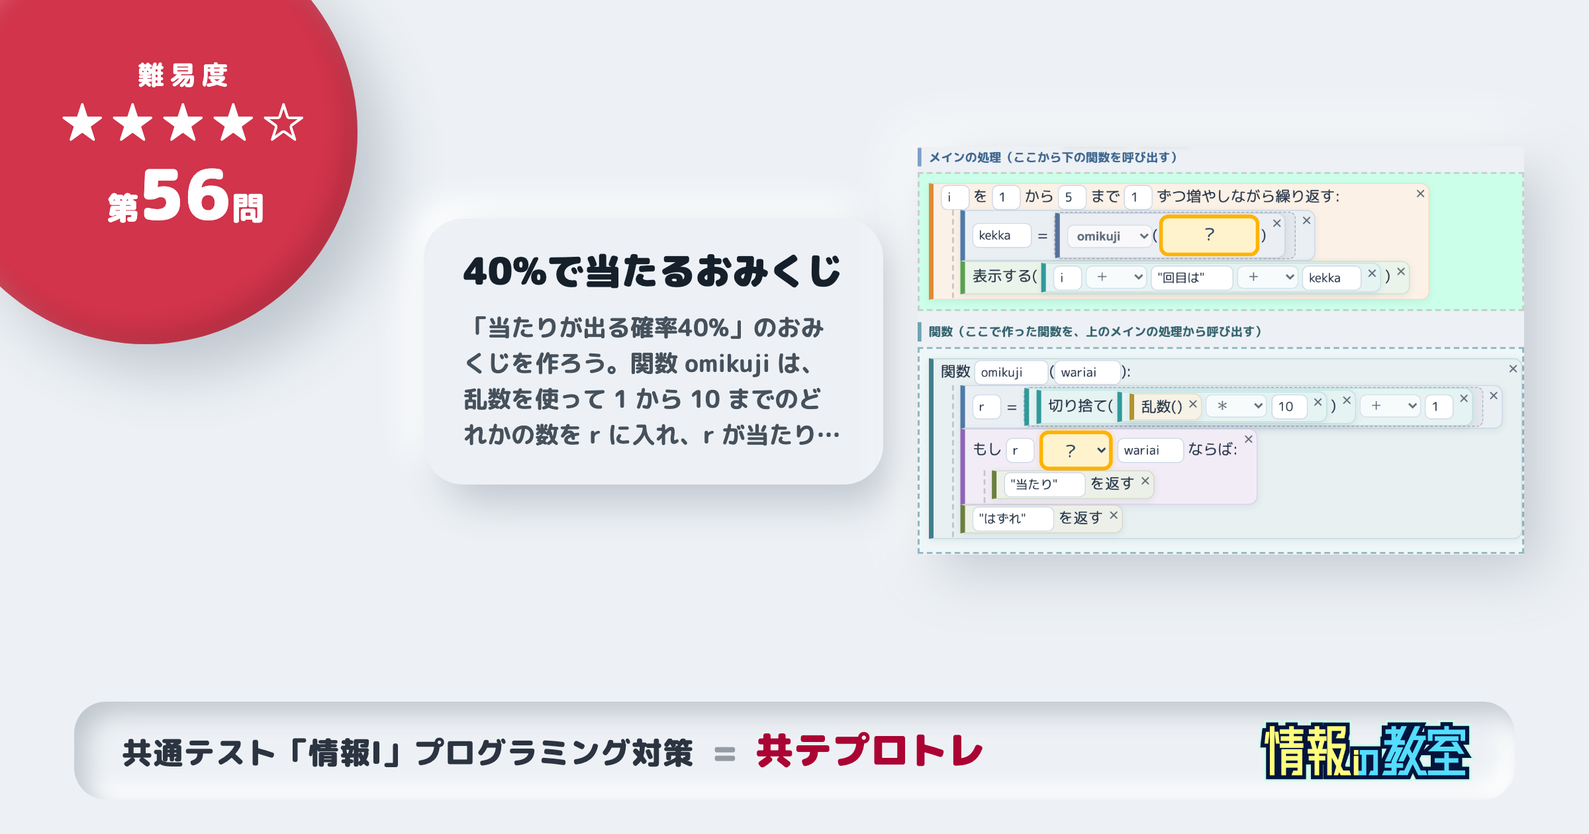
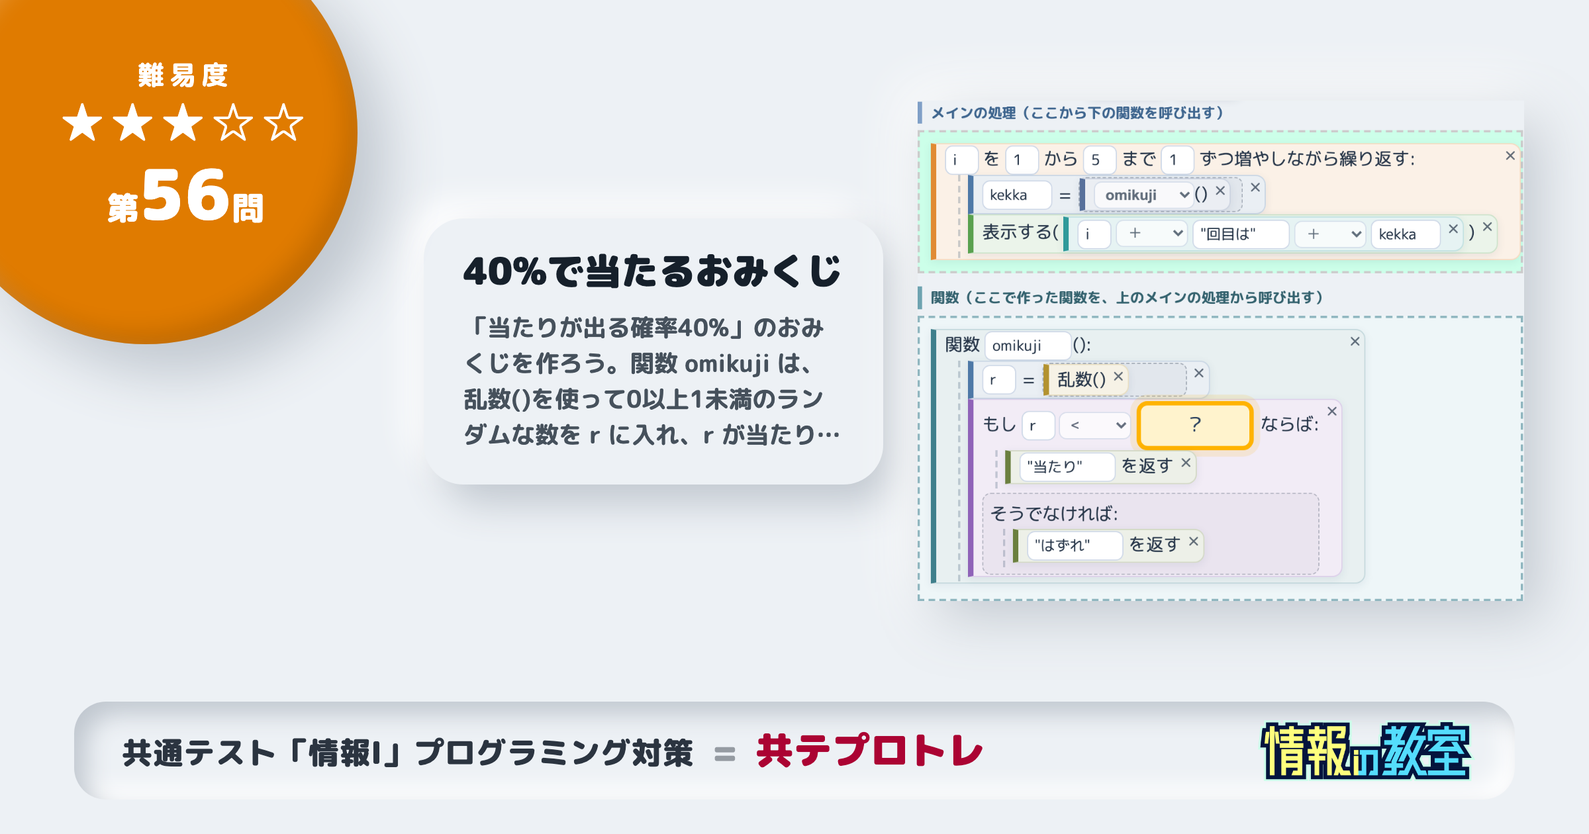
q056 を「乱数() をそのまま使う・空欄1か所」の形に直す
- 乱数() で 0以上1未満の数を r に入れ、r < ? を当たりの範囲にする
- 「そうでなければ はずれ を返す」の形（ifelse）にした
- 空欄は当たりの境目の1か所だけ（0.4 / 0.6 / 4 / 40）
- 切り捨てを使わなくなったぶん ★4 → ★3

あわせて、ステップ実行の説明で 乱数() が2回引かれてしまう不具合を直した。
代入の値をチップで見せるとき式を測りなおしていたため、
「乱数() → 0.37」と「r に 0.52 を入れる」のように違う数が並んでいた。
すでに実行して分かっている値を渡すようにした（operandChip の knownValue）。

Claude-Session: https://claude.ai/code/session_01Fnt7GrXy2anuprqC7dE9Wp

Changed region(s): [[0.5625, 0.1238, 0.9688, 0.7119], [0.0, 0.0, 0.25, 0.4333], [0.2812, 0.4643, 0.5312, 0.5262]]

diff --git a/dncl-scratch/quiz/q056/index.html b/dncl-scratch/quiz/q056/index.html
@@ -6,7 +6,7 @@
     <meta name="viewport" content="width=device-width, initial-scale=1.0">
 
     <title>第56問 40%で当たるおみくじ｜共通テスト「情報I」プログラミング演習 | 共テプロトレ</title>
-    <meta name="description" content="「当たりが出る確率40%」のおみくじを作ろう。関数 omikuji は、乱数を使って 1 から 10 までのどれかの数を r に入れ、r が当たりの範囲におさまっていれば「当たり」、そうでなければ「はずれ」を返します。10個の数のうち4個が当たりになれば40%です。omikuji には当たりの個数を wariai としてわたします。2か所の穴をうめよう｜DNCL（共通テスト用プログラム表記）の穴埋め問題（難易度4）。ブラウザ上でプログラムを実際に動かしながら解けます。">
+    <meta name="description" content="「当たりが出る確率40%」のおみくじを作ろう。関数 omikuji は、乱数()を使って0以上1未満のランダムな数を r に入れ、r が当たりの範囲におさまっていれば「当たり」、そうでなければ「はずれ」を返すように、1箇所の穴を埋めよう｜DNCL（共通テスト用プログラム表記）の穴埋め問題（難易度3）。ブラウザ上でプログラムを実際に動かしながら解けます。">
     <meta name="keywords" content="情報I プログラミング,DNCL,共通テスト,条件分岐,繰り返し,関数,40%で当たるおみくじ">
     <meta name="robots" content="index, follow">
     <link rel="canonical" href="https://joho-kyoshitsu.com/dncl-scratch/quiz/q056/index.html">
@@ -15,7 +15,7 @@
     <meta property="og:type" content="article">
     <meta property="og:site_name" content="情報の教室">
     <meta property="og:title" content="第56問 40%で当たるおみくじ｜共通テスト「情報I」プログラミング演習 | 共テプロトレ">
-    <meta property="og:description" content="「当たりが出る確率40%」のおみくじを作ろう。関数 omikuji は、乱数を使って 1 から 10 までのどれかの数を r に入れ、r が当たりの範囲におさまっていれば「当たり」、そうでなければ「はずれ」を返します。10個の数のうち4個が当たりになれば40%です。omikuji には当たりの個数を wariai としてわたします。2か所の穴をうめよう｜DNCL（共通テスト用プログラム表記）の穴埋め問題（難易度4）。ブラウザ上でプログラムを実際に動かしながら解けます。">
+    <meta property="og:description" content="「当たりが出る確率40%」のおみくじを作ろう。関数 omikuji は、乱数()を使って0以上1未満のランダムな数を r に入れ、r が当たりの範囲におさまっていれば「当たり」、そうでなければ「はずれ」を返すように、1箇所の穴を埋めよう｜DNCL（共通テスト用プログラム表記）の穴埋め問題（難易度3）。ブラウザ上でプログラムを実際に動かしながら解けます。">
     <meta property="og:url" content="https://joho-kyoshitsu.com/dncl-scratch/quiz/q056/index.html">
     <meta property="og:image" content="https://joho-kyoshitsu.com/dncl-scratch/quiz/img/q056.png">
     <meta property="og:locale" content="ja_JP">
@@ -23,7 +23,7 @@
     <!-- Twitterカード -->
     <meta name="twitter:card" content="summary_large_image">
     <meta name="twitter:title" content="第56問 40%で当たるおみくじ｜共通テスト「情報I」プログラミング演習 | 共テプロトレ">
-    <meta name="twitter:description" content="「当たりが出る確率40%」のおみくじを作ろう。関数 omikuji は、乱数を使って 1 から 10 までのどれかの数を r に入れ、r が当たりの範囲におさまっていれば「当たり」、そうでなければ「はずれ」を返します。10個の数のうち4個が当たりになれば40%です。omikuji には当たりの個数を wariai としてわたします。2か所の穴をうめよう｜DNCL（共通テスト用プログラム表記）の穴埋め問題（難易度4）。ブラウザ上でプログラムを実際に動かしながら解けます。">
+    <meta name="twitter:description" content="「当たりが出る確率40%」のおみくじを作ろう。関数 omikuji は、乱数()を使って0以上1未満のランダムな数を r に入れ、r が当たりの範囲におさまっていれば「当たり」、そうでなければ「はずれ」を返すように、1箇所の穴を埋めよう｜DNCL（共通テスト用プログラム表記）の穴埋め問題（難易度3）。ブラウザ上でプログラムを実際に動かしながら解けます。">
     <meta name="twitter:image" content="https://joho-kyoshitsu.com/dncl-scratch/quiz/img/q056.png">
 
     <script type="application/ld+json">
@@ -47,27 +47,19 @@
       "hasPart": {
         "@type": "Question",
         "eduQuestionType": "Multiple choice",
-        "text": "「当たりが出る確率40%」のおみくじを作ろう。関数 omikuji は、乱数を使って 1 から 10 までのどれかの数を r に入れ、r が当たりの範囲におさまっていれば「当たり」、そうでなければ「はずれ」を返します。10個の数のうち4個が当たりになれば40%です。omikuji には当たりの個数を wariai としてわたします。2か所の穴をうめよう",
+        "text": "「当たりが出る確率40%」のおみくじを作ろう。関数 omikuji は、乱数()を使って0以上1未満のランダムな数を r に入れ、r が当たりの範囲におさまっていれば「当たり」、そうでなければ「はずれ」を返すように、1箇所の穴を埋めよう",
         "acceptedAnswer": {
           "@type": "Answer",
-          "text": "<= , 4"
+          "text": "0.4"
         },
         "suggestedAnswer": [
           {
             "@type": "Answer",
-            "text": "<="
+            "text": "0.4"
           },
           {
             "@type": "Answer",
-            "text": "<"
-          },
-          {
-            "@type": "Answer",
-            "text": ">="
-          },
-          {
-            "@type": "Answer",
-            "text": ">"
+            "text": "0.6"
           },
           {
             "@type": "Answer",
@@ -75,15 +67,7 @@
           },
           {
             "@type": "Answer",
-            "text": "10"
-          },
-          {
-            "@type": "Answer",
             "text": "40"
-          },
-          {
-            "@type": "Answer",
-            "text": "0.4"
           }
         ]
       }
@@ -127,50 +111,41 @@
     <noscript>
         <article>
             <h1>第56問 40%で当たるおみくじ</h1>
-            <p>「当たりが出る確率40%」のおみくじを作ろう。関数 omikuji は、乱数を使って 1 から 10 までのどれかの数を r に入れ、r が当たりの範囲におさまっていれば「当たり」、そうでなければ「はずれ」を返します。10個の数のうち4個が当たりになれば40%です。omikuji には当たりの個数を wariai としてわたします。2か所の穴をうめよう</p>
-            <p>難易度：★★★★☆（4／やや難しい）。単元：条件分岐・繰り返し・関数。共通テスト「情報I」で使われるDNCL（共通テスト用プログラム表記）の穴埋め問題です。JavaScriptを有効にすると、このページでプログラムを組み立てて実行しながら解けます。</p>
+            <p>「当たりが出る確率40%」のおみくじを作ろう。関数 omikuji は、乱数()を使って0以上1未満のランダムな数を r に入れ、r が当たりの範囲におさまっていれば「当たり」、そうでなければ「はずれ」を返すように、1箇所の穴を埋めよう</p>
+            <p>難易度：★★★☆☆（3／標準）。単元：条件分岐・繰り返し・関数。共通テスト「情報I」で使われるDNCL（共通テスト用プログラム表記）の穴埋め問題です。JavaScriptを有効にすると、このページでプログラムを組み立てて実行しながら解けます。</p>
 
             <h2>プログラム</h2>
-            <pre><code>関数 omikuji(wariai):
-  r = 切り捨て(乱数() * 10) + 1
-  もし r ［A］ wariai ならば:
+            <pre><code>関数 omikuji():
+  r = 乱数()
+  もし r &lt; ［A］ ならば:
     &quot;当たり&quot; を返す
-  &quot;はずれ&quot; を返す
+  そうでなければ:
+    &quot;はずれ&quot; を返す
 i を 1 から 5 まで 1 ずつ増やしながら繰り返す:
-  kekka = omikuji(［B］)
+  kekka = omikuji()
   表示する(i + &quot;回目は&quot; + kekka)</code></pre>
-            <p>空欄 ［A］・［B］ に当てはまるものを、次の選択肢から選びます。</p>
+            <p>空欄 ［A］ に当てはまるものを、次の選択肢から選びます。</p>
 
             <h2>選択肢</h2>
             <ul>
-                <li><code>&lt;=</code></li>
-                <li><code>&lt;</code></li>
-                <li><code>&gt;=</code></li>
-                <li><code>&gt;</code></li>
-                <li><code>4</code></li>
-                <li><code>10</code></li>
-                <li><code>40</code></li>
                 <li><code>0.4</code></li>
+                <li><code>0.6</code></li>
+                <li><code>4</code></li>
+                <li><code>40</code></li>
             </ul>
 
             <h2>ヒント</h2>
-            <p>切り捨て(乱数() * 10) + 1 は、1 から 10 までのどれかの数を作ります。10個のうち4個が当たりなら 4 わる 10 で40%。だから 1・2・3・4 を当たりにすればよく、4 もふくめるので r &lt;= 4、つまり wariai には 4 をわたします。乱数を使っているので実行するたびに結果は変わりますが、何回もためすと4割くらいが「当たり」になります</p>
+            <p>乱数() は 0 以上 1 未満の数を返します。0 から 1 までの帯のうち、0 から 0.4 までのぶんはちょうど4割。だから r &lt; 0.4 を当たりにすれば、確率40%のおみくじになります。乱数を使っているので実行するたびに結果は変わりますが、何回もためすと4割くらいが「当たり」になります</p>
 
             <h2>解答</h2>
             <ul>
-            <li>空欄 ［A］ … <code>&lt;=</code></li>
-            <li>空欄 ［B］ … <code>4</code></li>
+            <li>空欄 ［A］ … <code>0.4</code></li>
             </ul>
             <h2>よくある間違い</h2>
             <ul>
-            <li>［A］<code>&lt;</code>　［B］<code>4</code> … &lt; だと当たりになるのは 1・2・3 の3個だけで、30%になってしまいます。4 も当たりにふくめたいので、「以下」の &lt;= を使います</li>
-            <li>［A］<code>&gt;=</code>　［B］<code>4</code> … 向きが逆です。&gt;= だと 4・5・6・7・8・9・10 の7個が当たりになり、70%になってしまいます。当たりにしたいのは小さいほうの4個なので &lt;= です</li>
-            <li>［A］<code>&gt;</code>　［B］<code>4</code> … 向きが逆です。&gt; だと 5 から 10 までの6個が当たりになり、60%になってしまいます。1 から 4 までを当たりにする &lt;= を使います</li>
-            <li>［A］<code>&lt;=</code>　［B］<code>40</code> … 40% の「40」をそのまま入れたくなりますが、r は 1 から 10 までの数です。r &lt;= 40 はいつでも成り立つので、10回中10回とも当たり＝100%になってしまいます。10個のうち何個を当たりにするかを考えて、4 を入れましょう</li>
-            <li>［A］<code>&lt;=</code>　［B］<code>0.4</code> … 0.4 は「40%」を小数にしたものですが、r は 1 から 10 までの整数です。r &lt;= 0.4 はいちども成り立たず、ぜんぶ「はずれ」になってしまいます。1 から 10 のうち4個を当たりにするので 4 です</li>
-            <li>［A］<code>&lt;=</code>　［B］<code>10</code> … r は必ず 10 以下なので、r &lt;= 10 はいつでも成り立ちます。10回中10回とも当たり＝100%です。10個のうち4個だけを当たりにしたいので 4 を入れます</li>
-            <li>［A］<code>&lt;</code>　［B］<code>10</code> … 2か所ちがいます。r &lt; 10 だと 1 から 9 までの9個が当たりで90%です。当たりの個数は 4、そして 4 ちょうども当たりにふくめるので &lt;= を使います</li>
-            <li>［A］<code>&gt;</code>　［B］<code>40</code> … 2か所ちがいます。r &gt; 40 になる r はないので、ぜんぶ「はずれ」です。1 から 4 までを当たりにする &lt;= と 4 の組み合わせにしましょう</li>
+            <li>［A］<code>0.6</code> … 0.6 だと、0 から 0.6 までが当たりの範囲になります。これは全体の6割なので60%です。当たりを4割にしたいので、区切るところは 0.4 です</li>
+            <li>［A］<code>4</code> … 乱数() が返すのは0以上1未満の数なので、r は必ず 4 より小さくなります。つまり r &lt; 4 はいつでも成り立ち、10回引けば10回とも当たり＝100%です。40%は「0.4」と書きます</li>
+            <li>［A］<code>40</code> … 40% の「40」をそのまま入れたくなりますが、r は0以上1未満の数なので、r &lt; 40 はいつでも成り立ちます。ぜんぶ当たりになってしまいます。1 のうちの4割なので 0.4 です</li>
             </ul>
 
             <h2>この単元の解説動画</h2>

diff --git a/dncl-scratch/quiz-data.js b/dncl-scratch/quiz-data.js
@@ -4318,32 +4318,34 @@ window.quizData = {
     q056: {
         title: "40%で当たるおみくじ",
         addedAt: "2026-09-11",
-        difficulty: 4,
-        question: "「当たりが出る確率40%」のおみくじを作ろう。関数 omikuji は、乱数を使って 1 から 10 までのどれかの数を r に入れ、r が当たりの範囲におさまっていれば「当たり」、そうでなければ「はずれ」を返します。10個の数のうち4個が当たりになれば40%です。omikuji には当たりの個数を wariai としてわたします。2か所の穴をうめよう",
+        difficulty: 3,
+        question: "「当たりが出る確率40%」のおみくじを作ろう。関数 omikuji は、乱数()を使って0以上1未満のランダムな数を r に入れ、r が当たりの範囲におさまっていれば「当たり」、そうでなければ「はずれ」を返すように、1箇所の穴を埋めよう",
         ast: [
             {
                 type: "func",
                 name: "omikuji",
-                params: "wariai",
+                params: "",
                 body: [
                     {
                         type: "assign",
                         name: "r",
-                        value: "切り捨て(乱数() * 10) + 1"
+                        value: "乱数()"
                     },
                     {
-                        type: "if",
-                        condition: "r __BLANK_blank_a__ wariai",
-                        body: [
+                        type: "ifelse",
+                        condition: "r < __BLANK_blank_a__",
+                        ifBody: [
                             {
                                 type: "return",
                                 value: "\"当たり\""
                             }
+                        ],
+                        elseBody: [
+                            {
+                                type: "return",
+                                value: "\"はずれ\""
+                            }
                         ]
-                    },
-                    {
-                        type: "return",
-                        value: "\"はずれ\""
                     }
                 ]
             },
@@ -4357,7 +4359,7 @@ window.quizData = {
                     {
                         type: "assign",
                         name: "kekka",
-                        value: "omikuji(__BLANK_blank_b__)"
+                        value: "omikuji()"
                     },
                     {
                         type: "print",
@@ -4367,61 +4369,32 @@ window.quizData = {
             }
         ],
         choices: [
-            { label: "<=", value: "<=" },
-            { label: "<", value: "<" },
-            { label: ">=", value: ">=" },
-            { label: ">", value: ">" },
-            { label: "4", value: "4" },
-            { label: "10", value: "10" },
-            { label: "40", value: "40" },
             { label: "0.4", value: "0.4" },
+            { label: "0.6", value: "0.6" },
+            { label: "4", value: "4" },
+            { label: "40", value: "40" },
         ],
         answers: [
             {
-                values: ["<=", "4"],
+                values: ["0.4"],
                 correct: true,
             },
             {
-                values: ["<", "4"],
+                values: ["0.6"],
                 correct: false,
-                hint: "< だと当たりになるのは 1・2・3 の3個だけで、30%になってしまいます。4 も当たりにふくめたいので、「以下」の <= を使います",
+                hint: "0.6 だと、0 から 0.6 までが当たりの範囲になります。これは全体の6割なので60%です。当たりを4割にしたいので、区切るところは 0.4 です",
             },
             {
-                values: [">=", "4"],
+                values: ["4"],
                 correct: false,
-                hint: "向きが逆です。>= だと 4・5・6・7・8・9・10 の7個が当たりになり、70%になってしまいます。当たりにしたいのは小さいほうの4個なので <= です",
+                hint: "乱数() が返すのは0以上1未満の数なので、r は必ず 4 より小さくなります。つまり r < 4 はいつでも成り立ち、10回引けば10回とも当たり＝100%です。40%は「0.4」と書きます",
             },
             {
-                values: [">", "4"],
+                values: ["40"],
                 correct: false,
-                hint: "向きが逆です。> だと 5 から 10 までの6個が当たりになり、60%になってしまいます。1 から 4 までを当たりにする <= を使います",
-            },
-            {
-                values: ["<=", "40"],
-                correct: false,
-                hint: "40% の「40」をそのまま入れたくなりますが、r は 1 から 10 までの数です。r <= 40 はいつでも成り立つので、10回中10回とも当たり＝100%になってしまいます。10個のうち何個を当たりにするかを考えて、4 を入れましょう",
-            },
-            {
-                values: ["<=", "0.4"],
-                correct: false,
-                hint: "0.4 は「40%」を小数にしたものですが、r は 1 から 10 までの整数です。r <= 0.4 はいちども成り立たず、ぜんぶ「はずれ」になってしまいます。1 から 10 のうち4個を当たりにするので 4 です",
-            },
-            {
-                values: ["<=", "10"],
-                correct: false,
-                hint: "r は必ず 10 以下なので、r <= 10 はいつでも成り立ちます。10回中10回とも当たり＝100%です。10個のうち4個だけを当たりにしたいので 4 を入れます",
-            },
-            {
-                values: ["<", "10"],
-                correct: false,
-                hint: "2か所ちがいます。r < 10 だと 1 から 9 までの9個が当たりで90%です。当たりの個数は 4、そして 4 ちょうども当たりにふくめるので <= を使います",
-            },
-            {
-                values: [">", "40"],
-                correct: false,
-                hint: "2か所ちがいます。r > 40 になる r はないので、ぜんぶ「はずれ」です。1 から 4 までを当たりにする <= と 4 の組み合わせにしましょう",
+                hint: "40% の「40」をそのまま入れたくなりますが、r は0以上1未満の数なので、r < 40 はいつでも成り立ちます。ぜんぶ当たりになってしまいます。1 のうちの4割なので 0.4 です",
             }
         ],
-        defaultHint: "切り捨て(乱数() * 10) + 1 は、1 から 10 までのどれかの数を作ります。10個のうち4個が当たりなら 4 わる 10 で40%。だから 1・2・3・4 を当たりにすればよく、4 もふくめるので r <= 4、つまり wariai には 4 をわたします。乱数を使っているので実行するたびに結果は変わりますが、何回もためすと4割くらいが「当たり」になります"
+        defaultHint: "乱数() は 0 以上 1 未満の数を返します。0 から 1 までの帯のうち、0 から 0.4 までのぶんはちょうど4割。だから r < 0.4 を当たりにすれば、確率40%のおみくじになります。乱数を使っているので実行するたびに結果は変わりますが、何回もためすと4割くらいが「当たり」になります"
     },
 }

diff --git a/dncl-scratch/executor.js b/dncl-scratch/executor.js
@@ -1431,7 +1431,10 @@ function buildStepCard({ title, rows = [], badge = "", badgeClass = "", cardClas
 
 // 1つの被演算子（オペランド）を「表示する(結合)」と同じ concat-chip で見せる。
 // 変数や配列要素は ラベル(式)＋値 のチップ、定数・文字列はそのままのトークン。
-function operandChip(exprText, scope) {
+// knownValue … すでに実行して分かっている値。乱数() のように「評価するたびに
+// 変わる」式は、ここで測りなおすと実際に代入された値と食いちがってしまうので、
+// 分かっているときは必ずそれを使う。
+function operandChip(exprText, scope, knownValue) {
     const t = String(exprText).trim();
     if (isNumericConstant(t)) {
         return calcToken(t);
@@ -1477,7 +1480,7 @@ function operandChip(exprText, scope) {
             + `</span>`;
     }
 
-    const value = safeEvalWithScope(t, scope);
+    const value = knownValue !== undefined ? knownValue : safeEvalWithScope(t, scope);
     return `<span class="concat-chip">`
         + `<span class="chip-label">${escapeHtml(prettyExpr(t))}</span>`
         + `<span class="chip-val">${escapeHtml(formatVarValue(value))}</span>`
@@ -1741,7 +1744,7 @@ function buildAssignExplanation(node, scope, result) {
     if (Array.isArray(value)) {
         rowHtml = `${calcToken(`${node.name}${arrayTag}`, "calc-target")}${calcOp("=")}${calcToken(formatVarValue(value))}`;
     } else {
-        rowHtml = `${calcToken(`${node.name}${arrayTag}`, "calc-target")}${calcOp("=")}${operandChip(node.value, scope)}`;
+        rowHtml = `${calcToken(`${node.name}${arrayTag}`, "calc-target")}${calcOp("=")}${operandChip(node.value, scope, value)}`;
     }
     const html = buildStepCard({
         title: "今のステップ",
